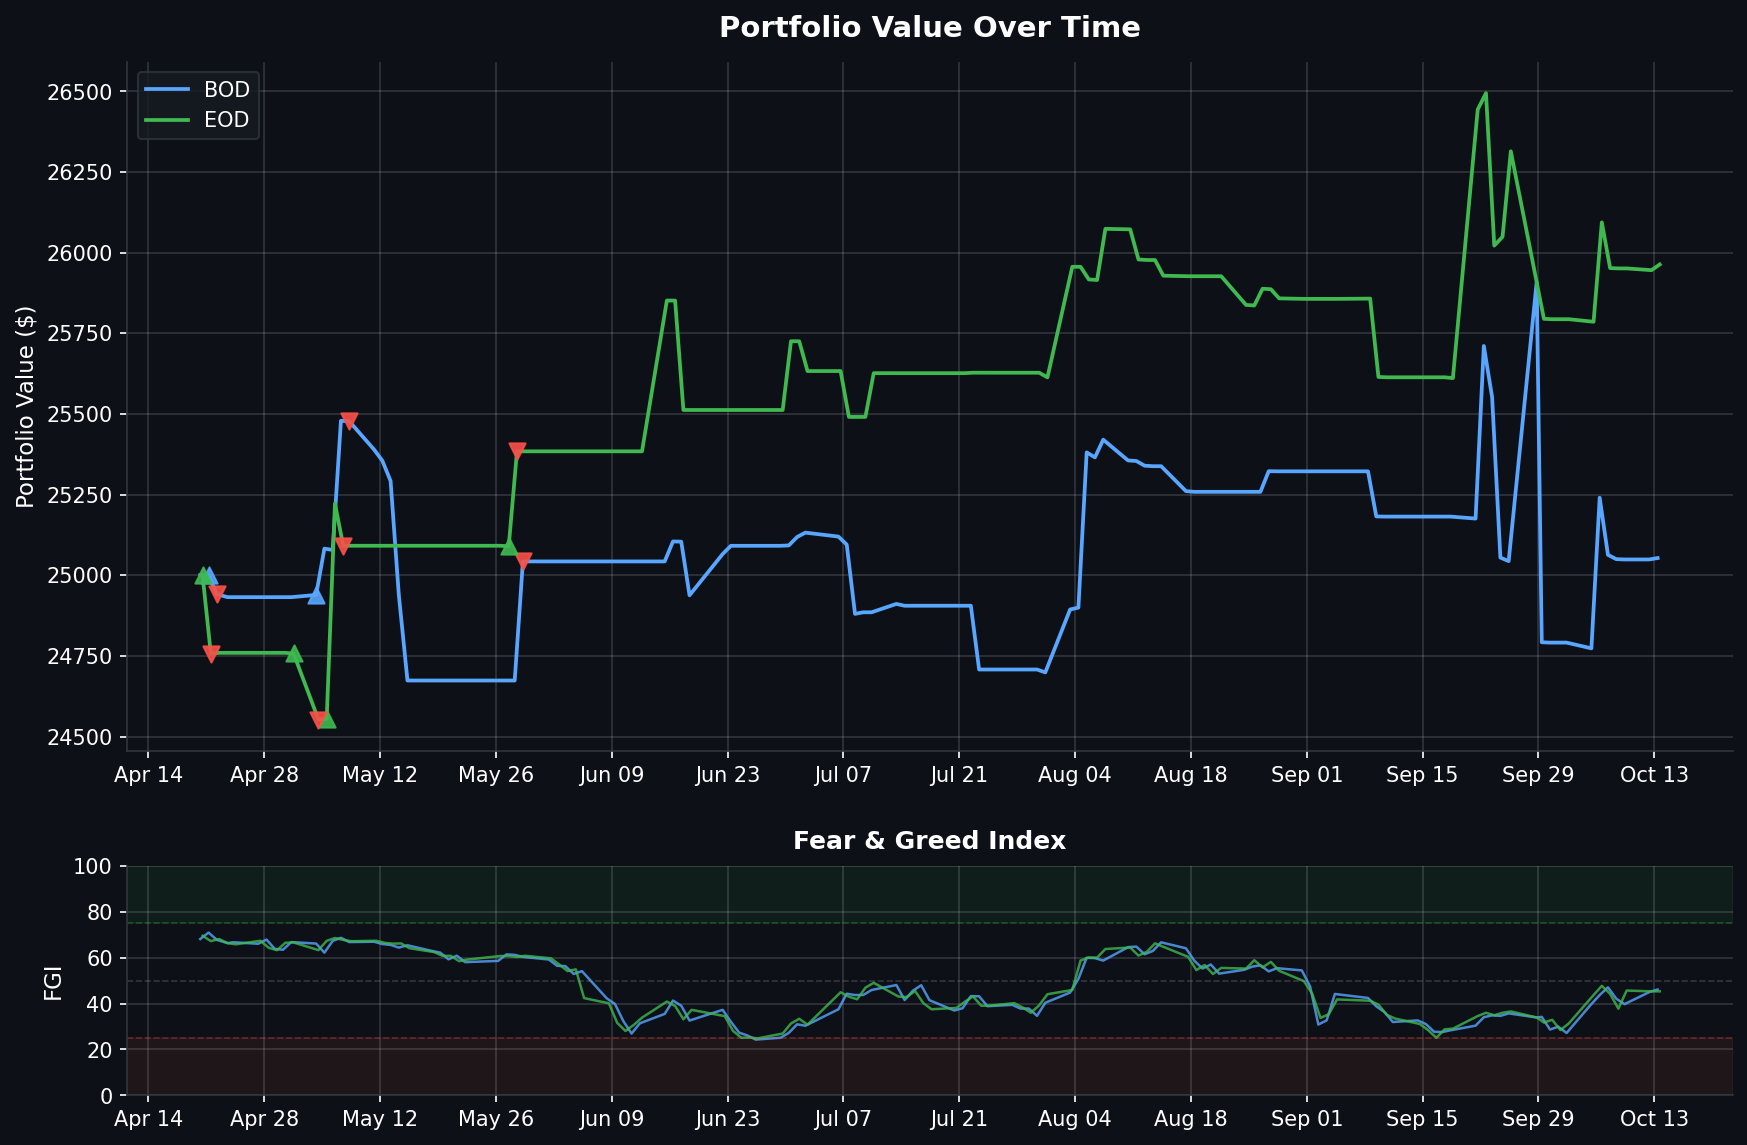
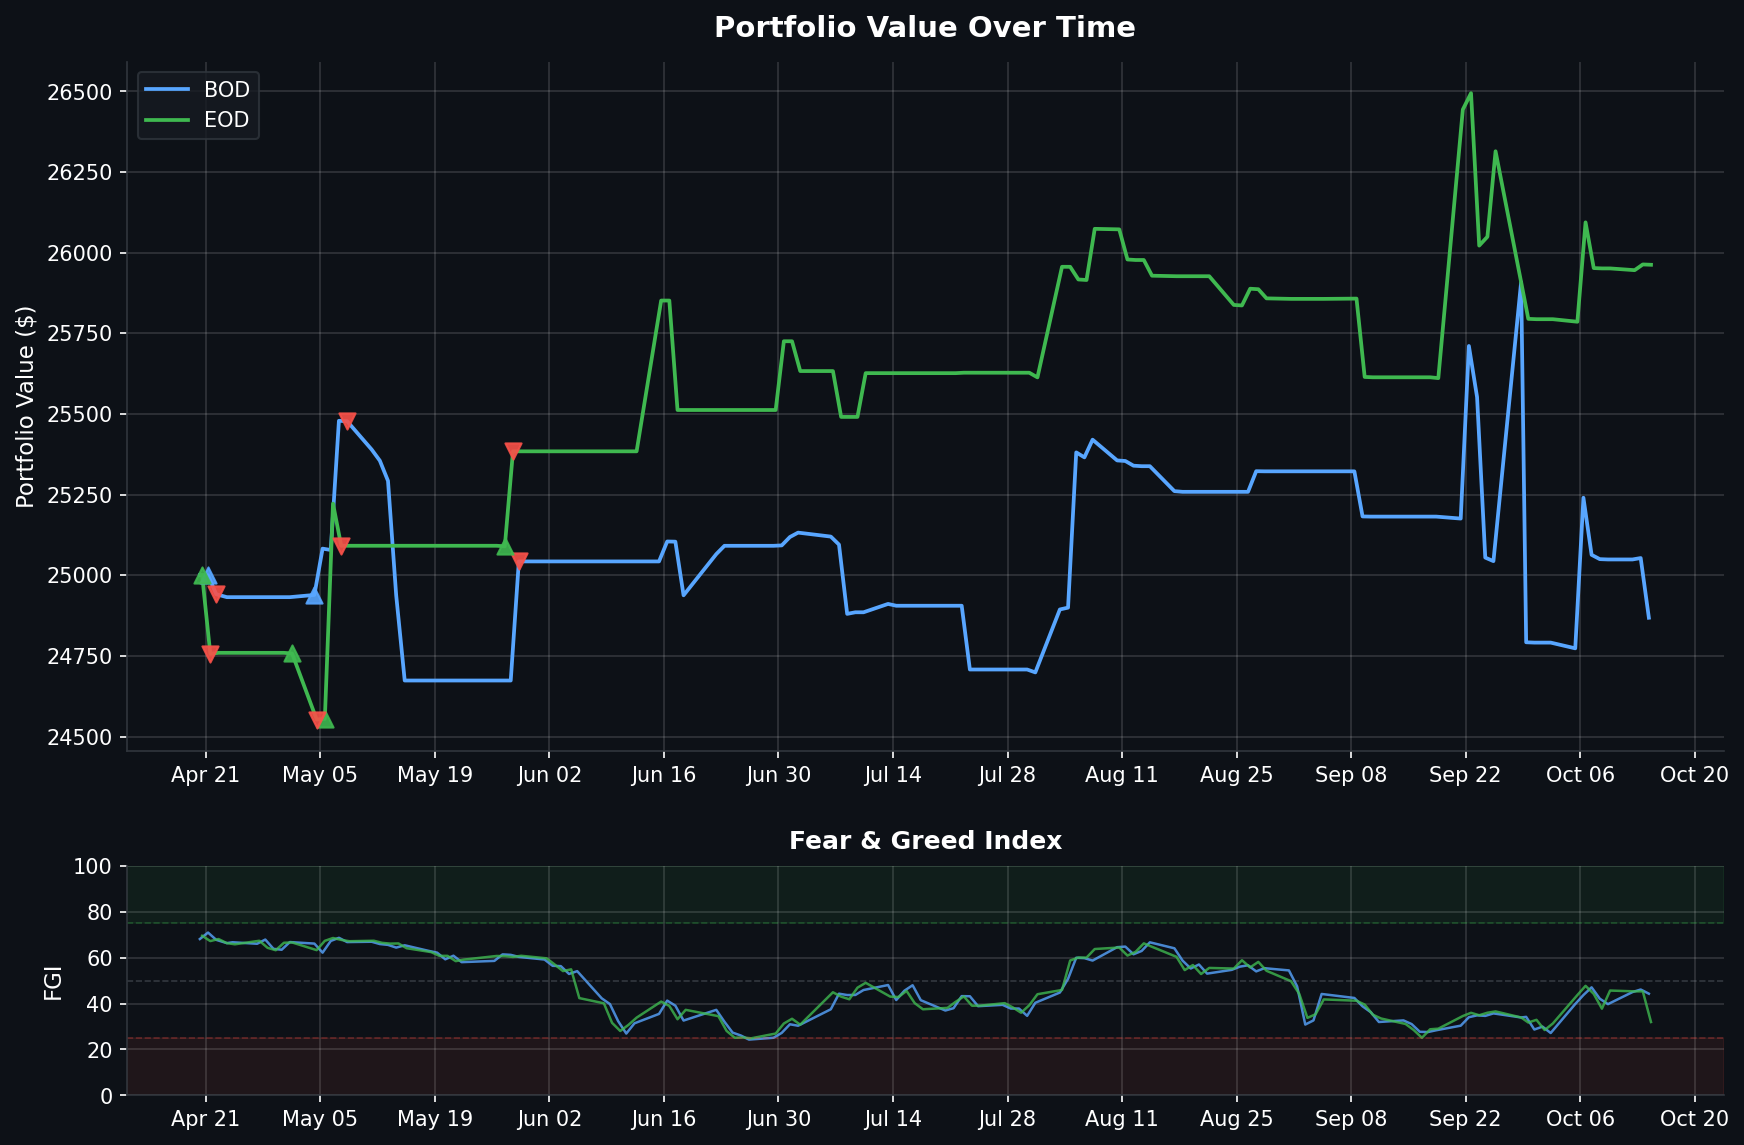
Daily data backup 2026-10-14

diff --git a/README.md b/README.md
@@ -1,6 +1,6 @@
 # Fear & Greed Index Trading Bot
 
-> Dashboard auto-updated daily at market close | Last update: **2026-10-13 13:30 PST**
+> Dashboard auto-updated daily at market close | Last update: **2026-10-14 13:30 PST**
 
 ![Portfolio Performance](assets/portfolio_chart.png)
 
@@ -10,22 +10,23 @@
 
 | Metric | Value |
 |--------|-------|
-| Portfolio Value | **$25,053.27** |
-| Buying Power | $42,347.36 |
-| Current FGI | 46.11 |
-| Position | FLAT |
+| Portfolio Value | **$24,868.22** |
+| Buying Power | $99,472.88 |
+| Current FGI | 44.29 |
+| Position | IN POSITION |
 | Total P&L | **$+995** |
 | Win Rate | 50% (1W / 1L) |
 | Total Round Trips | 2 |
-| Last Signal | NO_ACTION @ 2026-10-13 09:36 |
+| Last Signal | NO_ACTION @ 2026-10-14 09:35 |
 
 <details>
-<summary>Trade History (2 trades)</summary>
+<summary>Trade History (3 trades)</summary>
 
 | Buy Date | Sell Date | Buy Price | Sell Price | Qty | P&L | Return | Result |
 |----------|-----------|-----------|------------|-----|-----|--------|--------|
 | 2026-04-21 | 2026-04-22 | $710.20 | $709.24 | 70 | $-68 | -0.14% | LOSS |
 | 2026-05-04 | 2026-05-08 | $719.65 | $735.05 | 69 | $+1,063 | +2.14% | WIN |
+| 2026-10-13 | — | unknown (late/unlogged fill) | — | 62 | — | — | OPEN |
 
 </details>
 
@@ -34,11 +35,11 @@
 
 | Time | Action | Price | FGI | Momentum | Velocity | Volatility | Reason |
 |------|--------|-------|-----|----------|----------|------------|--------|
+| 10-14 09:35 | NO_ACTION | $775.04 | 44.29 | -0.84 | 1.52 | 0.0957 | SELL incomplete - still holding 62 after 5 attempts |
 | 10-13 09:36 | NO_ACTION | $777.67 | 46.11 | 2.49 | 1.33 | 0.0964 | BUY did not fill after 3 attempts |
 | 10-12 09:35 | NO_ACTION | $778.58 | 45.0 | 2.72 | -0.69 | 0.0982 | Insufficient momentum/velocity for entry |
 | 10-09 09:35 | NO_ACTION | $776.56 | 39.74 | -3.23 | -1.32 | 0.0989 | Insufficient momentum/velocity for entry |
 | 10-08 09:35 | NO_ACTION | $775.05 | 42.11 | -2.18 | 0.77 | 0.1011 | SELL incomplete - still holding 62 after 5 attempts |
-| 10-07 09:35 | NO_ACTION | $775.14 | 47.06 | 3.54 | 6.63 | 0.1046 | Holding position - indicators still favorable (2/8 days) |
 
 </details>
 
@@ -48,17 +49,17 @@
 
 | Metric | Value |
 |--------|-------|
-| Portfolio Value | **$25,963.48** |
-| Buying Power | $103,853.92 |
-| Current FGI | 45.31 |
-| Position | IN POSITION |
+| Portfolio Value | **$25,962.41** |
+| Buying Power | $103,849.64 |
+| Current FGI | 31.96 |
+| Position | FLAT |
 | Total P&L | **$+302** |
 | Win Rate | 50% (2W / 2L) |
 | Total Round Trips | 4 |
-| Last Signal | NO_ACTION @ 2026-10-13 15:50 |
+| Last Signal | NO_ACTION @ 2026-10-14 15:50 |
 
 <details>
-<summary>Trade History (5 trades)</summary>
+<summary>Trade History (4 trades)</summary>
 
 | Buy Date | Sell Date | Buy Price | Sell Price | Qty | P&L | Return | Result |
 |----------|-----------|-----------|------------|-----|-----|--------|--------|
@@ -66,7 +67,6 @@
 | 2026-05-01 | 2026-05-04 | $720.42 | $717.38 | 68 | $-207 | -0.42% | LOSS |
 | 2026-05-05 | 2026-05-07 | $723.86 | $731.90 | 67 | $+539 | +1.11% | WIN |
 | 2026-05-27 | 2026-05-28 | $750.78 | $755.22 | 66 | $+293 | +0.59% | WIN |
-| 2026-10-12 | — | unknown (late/unlogged fill) | — | 66 | — | — | OPEN |
 
 </details>
 
@@ -75,11 +75,11 @@
 
 | Time | Action | Price | FGI | Momentum | Velocity | Volatility | Reason |
 |------|--------|-------|-----|----------|----------|------------|--------|
+| 10-14 15:50 | NO_ACTION | $768.97 | 31.96 | -8.90 | -4.57 | 0.1052 | Insufficient momentum/velocity for entry |
 | 10-13 15:50 | NO_ACTION | $778.38 | 45.31 | -0.12 | 2.51 | 0.0962 | SELL incomplete - still holding 66 after 5 attempts |
 | 10-12 15:51 | NO_ACTION | $777.98 | 45.31 | 2.40 | 0.37 | 0.0984 | BUY did not fill after 3 attempts |
 | 10-09 15:50 | NO_ACTION | $778.54 | 45.66 | 3.12 | -0.68 | 0.1003 | Insufficient momentum/velocity for entry |
 | 10-08 15:50 | NO_ACTION | $773.76 | 37.77 | -5.46 | -1.97 | 0.1023 | Insufficient momentum/velocity for entry |
-| 10-07 15:50 | NO_ACTION | $777.29 | 44.2 | -1.00 | 4.30 | 0.1035 | SELL incomplete - still holding 65 after 5 attempts |
 
 </details>
 
